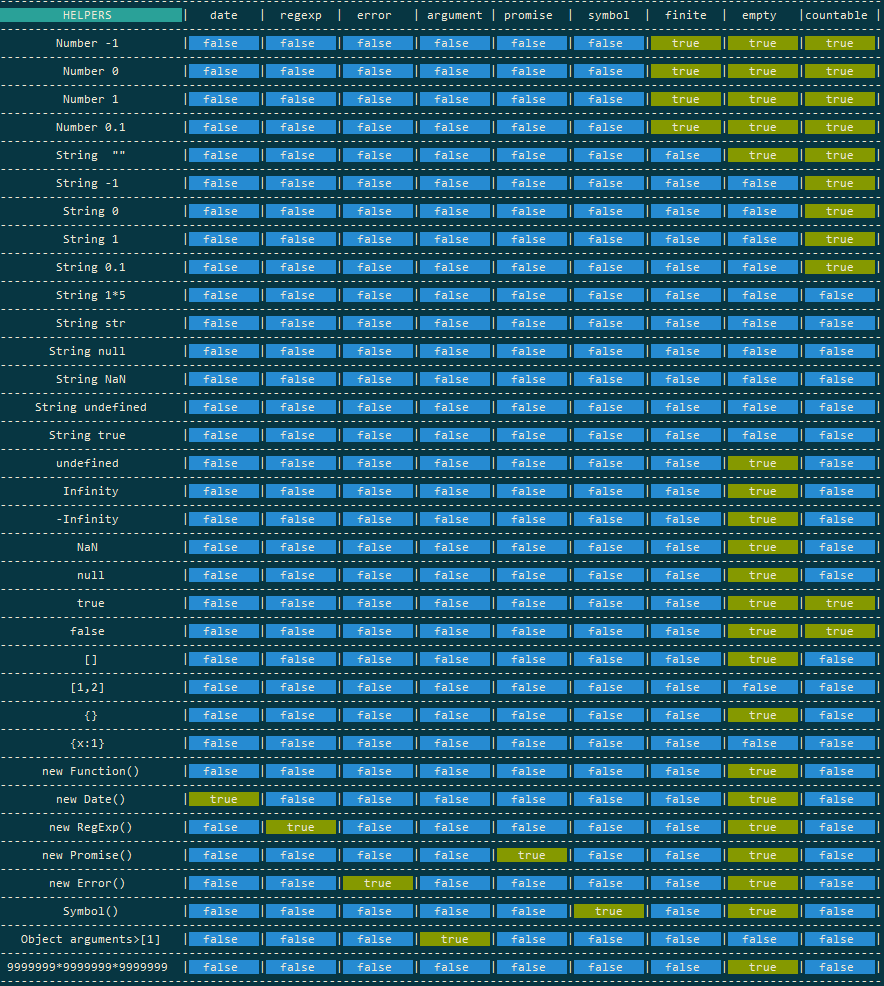
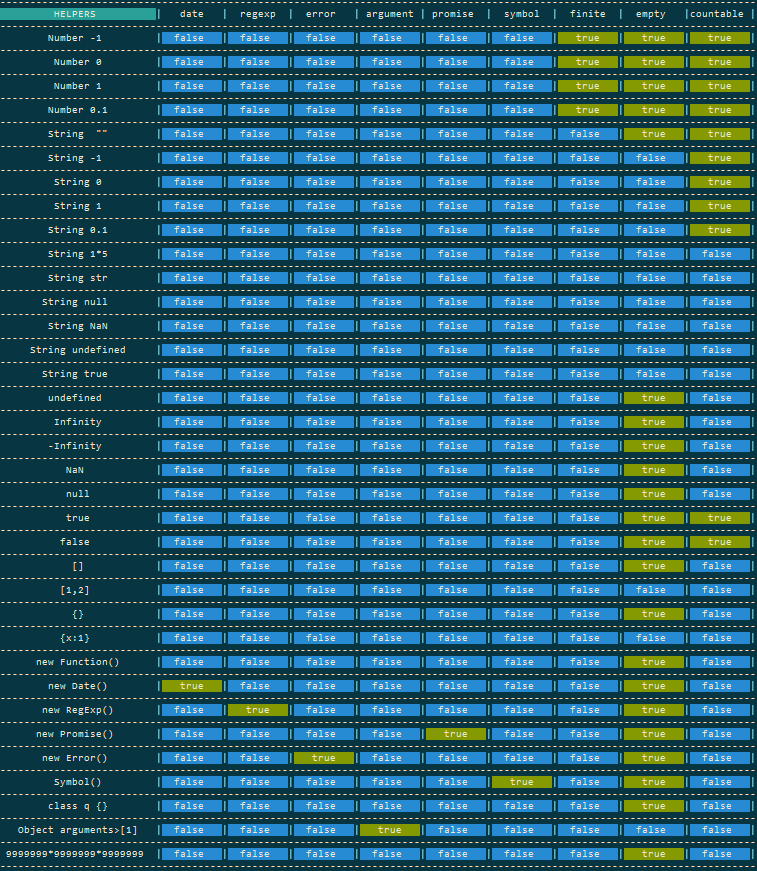
added determine classes

diff --git a/s-is.min.js b/s-is.min.js
@@ -2,4 +2,4 @@
  * s-is version 1.3.7 at 2016-12-23
  * @license MIT License Copyright (c) 2016 Serhii Perekhrest <allsajera@gmail.com> ( Sajera )    
  */
-!function(){"use strict";function n(n,e){var t=Object.keys(n),r=Object.keys(e);if(t.length!=r.length)return!1;try{if(JSON.stringify(n)!=JSON.stringify(e))return!1}catch(n){return!1}for(var o=0;o<t.length;o++)if(r.indexOf(t[o])==-1||!i._equal(n[t[o]],e[t[o]]))return!1;return!0}function e(n,e){var t=Object.keys(n),r=Object.keys(e);if(t.length!=r.length)return!1;try{JSON.stringify(n)&&JSON.stringify(e)}catch(n){return!1}for(var o=0;o<t.length;o++)if(r.indexOf(t[o])==-1||!c.equal(n[t[o]],e[t[o]]))return!1;return!0}function t(n){return Object.assign(r.bind(n),n)}function r(n){if("function"==typeof n.toLowerCase&&(n=n.toLowerCase())&&"function"==typeof this[n])return this[n].apply(null,Array.prototype.slice.call(arguments,1));throw new Error('No such check as "'+n+'"')}var o=Object.prototype.toString,u={typeof:function(n){for(var e in u)if("typeof"!=e&&u[e](n))break;return"defined"==e?typeof n:e},nan:function(n){return n!==n},infinity:function(n){return r.number(n)&&n==n+1},null:function(n){return null===n},number:function(n){return"number"==typeof n},string:function(n){return"string"==typeof n},boolean:function(n){return"boolean"==typeof n},function:function(n){return"function"==typeof n},array:function(n){return"[object Array]"==o.call(n)},object:function(n){return!!n&&!r.array(n)&&"object"==typeof n},undefined:function(n){return"undefined"==typeof n},defined:function(n){return"undefined"!=typeof n}},i={_object:function(n){return"[object Object]"==o.call(n)},_number:function(n){return r.number(n)&&!r.nan(n)&&n!=n+1},_equal:function(e,t){switch(r.typeof(e)){case"nan":return r.nan(t);case"infinity":case"undefined":case"boolean":case"symbol":case"null":return e==t;case"number":return r.number(t)&&e==t;case"string":return r.string(t)&&e==t;case"function":return r.function(t)&&e.toString()==t.toString();case"array":case"object":var o=r.typeof(t);return("array"==o||"object"==o)&&n(e,t)}return!1}},c={equal:function(n,t){switch(r.typeof(n)){case"nan":return r.nan(t);case"infinity":case"undefined":case"boolean":case"null":return n==t;case"function":return r.function(t);case"symbol":case"number":case"string":var o=r.typeof(t);return"null"!=o&&"undefined"!=o&&n.toString()==t.toString();case"array":case"object":var o=r.typeof(t);return("array"==o||"object"==o)&&e(n,t)}return!1},empty:function(n,e){if(n&&("object"==typeof n||r.string(n)||r.function(n))){for(var t in n)if(Object.prototype.hasOwnProperty.call(n,t))return!1;return!0}if(e)throw new Error("A you sure ? - "+r.typeof(n).toUpperCase()+" may contain child elements ?");return!0},finite:function(n){return r._number(n)},countable:function(n){return!r.symbol(n)&&!r.infinity(n)&&!r.array(n)&&1*n==n},date:function(n){return"[object Date]"==o.call(n)},error:function(n){return"[object Error]"==o.call(n)},regexp:function(n){return"[object RegExp]"==o.call(n)},argument:function(n){return"[object Arguments]"==o.call(n)},symbol:function(n){return"[object Symbol]"==o.call(n)},promise:function(n){return"[object Promise]"==o.call(n)||!!n&&r.function(n.then)}},f={symbol:function(){return"function"==typeof Symbol&&r.symbol(Symbol())},promise:function(){return"function"==typeof Promise&&r.promise(new Promise(new Function))}},a={node:function(){return"undefined"!=typeof process&&"[object process]"==o.call(process)},browser:function(){return"undefined"!=typeof window&&"[object Window]"==o.call(window)}},r=t(Object.assign({platform:t(a),support:t(f)},u,c,i));r.platform.node()&&(module.exports=r),r.platform.browser()&&(window.is=r)}(); 
+!function(){"use strict";function n(n,e){var t=Object.keys(n),r=Object.keys(e);if(t.length!=r.length)return!1;try{if(JSON.stringify(n)!=JSON.stringify(e))return!1}catch(n){return!1}for(var o=0;o<t.length;o++)if(r.indexOf(t[o])==-1||!c._equal(n[t[o]],e[t[o]]))return!1;return!0}function e(n,e){var t=Object.keys(n),r=Object.keys(e);if(t.length!=r.length)return!1;try{JSON.stringify(n)&&JSON.stringify(e)}catch(n){return!1}for(var o=0;o<t.length;o++)if(r.indexOf(t[o])==-1||!i.equal(n[t[o]],e[t[o]]))return!1;return!0}function t(n){return Object.assign(r.bind(n),n)}function r(n){if("function"==typeof n.toLowerCase&&(n=n.toLowerCase())&&"function"==typeof this[n])return this[n].apply(null,Array.prototype.slice.call(arguments,1));throw new Error('No such check as "'+n+'"')}var o=Object.prototype.toString,u={typeof:function(n){for(var e in u)if("typeof"!=e&&u[e](n))break;return"defined"==e?typeof n:e},nan:function(n){return n!==n},infinity:function(n){return r.number(n)&&n==n+1},null:function(n){return null===n},number:function(n){return"number"==typeof n},string:function(n){return"string"==typeof n},boolean:function(n){return"boolean"==typeof n},function:function(n){return"function"==typeof n},array:function(n){return"[object Array]"==o.call(n)},object:function(n){return!!n&&!r.array(n)&&"object"==typeof n},undefined:function(n){return"undefined"==typeof n},defined:function(n){return"undefined"!=typeof n}},c={_object:function(n){return"[object Object]"==o.call(n)},_number:function(n){return r.number(n)&&!r.nan(n)&&n!=n+1},_equal:function(e,t){switch(r.typeof(e)){case"nan":return r.nan(t);case"infinity":case"undefined":case"boolean":case"symbol":case"null":return e==t;case"number":return r.number(t)&&e==t;case"string":return r.string(t)&&e==t;case"function":return r.function(t)&&e.toString()==t.toString();case"array":case"object":var o=r.typeof(t);return("array"==o||"object"==o)&&n(e,t)}return!1},class:function(n){return r.function(n)&&/^class/.test(n.toString())}},i={equal:function(n,t){switch(r.typeof(n)){case"nan":return r.nan(t);case"infinity":case"undefined":case"boolean":case"null":return n==t;case"function":return r.function(t);case"symbol":case"number":case"string":var o=r.typeof(t);return"null"!=o&&"undefined"!=o&&n.toString()==t.toString();case"array":case"object":var o=r.typeof(t);return("array"==o||"object"==o)&&e(n,t)}return!1},empty:function(n,e){if(n&&("object"==typeof n||r.string(n)||r.function(n))){for(var t in n)if(Object.prototype.hasOwnProperty.call(n,t))return!1;return!0}if(e)throw new Error("A you sure ? - "+r.typeof(n).toUpperCase()+" may contain child elements ?");return!0},finite:function(n){return r._number(n)},countable:function(n){return!r.symbol(n)&&!r.infinity(n)&&!r.array(n)&&1*n==n},date:function(n){return"[object Date]"==o.call(n)},error:function(n){return"[object Error]"==o.call(n)},regexp:function(n){return"[object RegExp]"==o.call(n)},argument:function(n){return"[object Arguments]"==o.call(n)},symbol:function(n){return"[object Symbol]"==o.call(n)},promise:function(n){return"[object Promise]"==o.call(n)||!!n&&r.function(n.then)}},f={symbol:function(){return"function"==typeof Symbol&&r.symbol(Symbol())},promise:function(){return"function"==typeof Promise&&r.promise(new Promise(new Function))}},a={node:function(){return"undefined"!=typeof process&&"[object process]"==o.call(process)},browser:function(){return"undefined"!=typeof window&&"[object Window]"==o.call(window)}},r=t(Object.assign({platform:t(a),support:t(f)},u,i,c));r.platform.node()&&(module.exports=r),r.platform.browser()&&(window.is=r)}(); 

diff --git a/doc/index.html b/doc/index.html
@@ -185,6 +185,16 @@
               
                 
                 <li><a
+                  href='#isclass'
+                  class="">
+                  is.class
+                  
+                </a>
+                
+                </li>
+              
+                
+                <li><a
                   href='#isequal'
                   class="">
                   is.equal
@@ -1557,6 +1567,84 @@ is(<span class="hljs-string">'_equal'</span>, [<span class="hljs-number">1</span
 is(<span class="hljs-string">'_equal'</span>, [<span class="hljs-number">1</span>,{<span class="hljs-attr">x</span>:<span class="hljs-number">1</span>}],[<span class="hljs-number">1</span>,{<span class="hljs-attr">x</span>:<span class="hljs-number">1</span>}]);  <span class="hljs-comment">// =&gt; true</span>
 is._equal();                        <span class="hljs-comment">// =&gt; true becose (undefined, undefined)</span>
 is._equal(<span class="hljs-literal">NaN</span>, <span class="hljs-literal">NaN</span>);                <span class="hljs-comment">// =&gt; true</span></pre>
+    
+  
+
+  
+
+  
+
+  
+</section>
+
+          
+        
+          
+            <section class='p2 mb2 clearfix bg-white minishadow'>
+
+  
+  <div class='clearfix'>
+    
+    <h3 class='fl m0' id='isclass'>
+      is.class
+    </h3>
+    
+    
+  </div>
+  
+
+  <p>It determine classes.</p>
+
+
+  <div class='pre p1 fill-light mt0'>is.class(data: any): <a href="https://developer.mozilla.org/en-US/docs/Web/JavaScript/Reference/Global_Objects/Boolean">Boolean</a></div>
+  
+  
+
+  
+  
+  
+  
+  
+
+  
+    <div class='py1 quiet mt1 prose-big'>Parameters</div>
+    <div class='prose'>
+      
+        <div class='space-bottom0'>
+          <div>
+            <span class='code bold'>data</span> <code class='quiet'>(any)</code>
+	    
+          </div>
+          
+        </div>
+      
+    </div>
+  
+
+  
+
+  
+    
+      <div class='py1 quiet mt1 prose-big'>Returns</div>
+      <code><a href="https://developer.mozilla.org/en-US/docs/Web/JavaScript/Reference/Global_Objects/Boolean">Boolean</a></code>:
+        
+
+      
+    
+  
+
+  
+
+  
+    <div class='py1 quiet mt1 prose-big'>Example</div>
+    
+      
+      <pre class='p1 overflow-auto round fill-light'><span class="hljs-class"><span class="hljs-keyword">class</span> <span class="hljs-title">q</span> </span>{}
+<span class="hljs-class"><span class="hljs-keyword">class</span> <span class="hljs-title">q1</span> <span class="hljs-keyword">extends</span> <span class="hljs-title">q</span> </span>{}
+<span class="hljs-function"><span class="hljs-keyword">function</span> <span class="hljs-title">Class</span> (<span class="hljs-params"></span>)</span>{}
+is.class( Class );      <span class="hljs-comment">// =&gt; false</span>
+is.class( q );          <span class="hljs-comment">// =&gt; true</span>
+is(<span class="hljs-string">'Class'</span>, q1 );       <span class="hljs-comment">// =&gt; true</span></pre>
     
   
 

diff --git a/s-is.js b/s-is.js
@@ -292,7 +292,25 @@ var strict = {
         }
         // expect its case is error
         return false;
-    }
+    },
+    /**
+     * It determine classes.
+     * 
+     * @example
+        class q {}
+        class q1 extends q {}
+        function Class (){}
+        is.class( Class );      // => false
+        is.class( q );          // => true
+        is('Class', q1 );       // => true
+     *
+     * @name is.class
+     * @param { any } data
+     * @returns { Boolean }
+     * @function
+     * @public
+     */
+    'class': function ( data ) { return is.function( data ) && /^class/.test(data.toString()); },
     /*
      * which data types requires a strict detect ?
      * @returns: { Boolean }
@@ -568,6 +586,7 @@ function objEqual ( first, second ) {
             if ( k2.indexOf(k1[key]) == -1 || !helpers.equal(first[k1[key]], second[k1[key]]) ) return false;
     }
     // i can not find any differents
+
     return true;
 }
 /*-------------------------------------------------

diff --git a/lib/strict.js b/lib/strict.js
@@ -84,7 +84,25 @@ var strict = {
         }
         // expect its case is error
         return false;
-    }
+    },
+    /**
+     * It determine classes.
+     * 
+     * @example
+        class q {}
+        class q1 extends q {}
+        function Class (){}
+        is.class( Class );      // => false
+        is.class( q );          // => true
+        is('Class', q1 );       // => true
+     *
+     * @name is.class
+     * @param { any } data
+     * @returns { Boolean }
+     * @function
+     * @public
+     */
+    'class': function ( data ) { return is.function( data ) && /^class/.test(data.toString()); },
     /*
      * which data types requires a strict detect ?
      * @returns: { Boolean }

diff --git a/test/test-strict.js b/test/test-strict.js
@@ -65,4 +65,14 @@ describe('STRICT', function () {
         expect( dual('_equal', [1,{x: Function}],[1,{x:function(){}}]) ).to.equal(false);
     });
 
+    it('is.class', function () {
+        class q {};
+        class q1 extends q {};
+        function Class () {};
+        expect( dual('class', q )                   ).to.equal(true);
+        expect( dual('class', q1)                   ).to.equal(true);
+        expect( dual('class', Class )               ).to.equal(false);
+        expect( dual('class', new Function)         ).to.equal(false);
+    });
+
 });

diff --git a/test/write-tables.js b/test/write-tables.js
@@ -44,6 +44,7 @@ var testData = {
     'new Promise()'      : new Promise(new Function),
     'new Error()'        : new Error(),
     'Symbol()'           : Symbol(),
+    'class q {}'         : class q {},
     'Object arguments>[1]': testArgs,
     '9999999*9999999*9999999': 9999999*9999999*9999999
 };
@@ -94,7 +95,7 @@ console.log(table('GENERAL',
 ), '\n');
 
 console.log(table('STRICT',
-    ['_object', '_number', 'defined']
+    ['_object', '_number', 'defined', 'class']
 ),'\n');
 
 console.log(table('HELPERS',

diff --git a/doc/API.md b/doc/API.md
@@ -300,6 +300,27 @@ is._equal(NaN, NaN);                // => true
 
 Returns **[Boolean](https://developer.mozilla.org/en-US/docs/Web/JavaScript/Reference/Global_Objects/Boolean)** 
 
+# is.class
+
+It determine classes.
+
+**Parameters**
+
+-   `data` **any** 
+
+**Examples**
+
+```javascript
+class q {}
+class q1 extends q {}
+function Class (){}
+is.class( Class );      // => false
+is.class( q );          // => true
+is('Class', q1 );       // => true
+```
+
+Returns **[Boolean](https://developer.mozilla.org/en-US/docs/Web/JavaScript/Reference/Global_Objects/Boolean)** 
+
 # is.equal
 
 comparison to equivalent between arguments

diff --git a/history.md b/history.md
@@ -1,7 +1,19 @@
+## version 1.4.0:
+
+**Strict mode:**
+> class
+
+--------------
+## version 1.3.7:
+
+save methods from errors
+
+--------------
 ## version 1.3.5:
 
 added documentation
 
+--------------
 ## version 1.3.0:
 
 added tests and lint scripts
